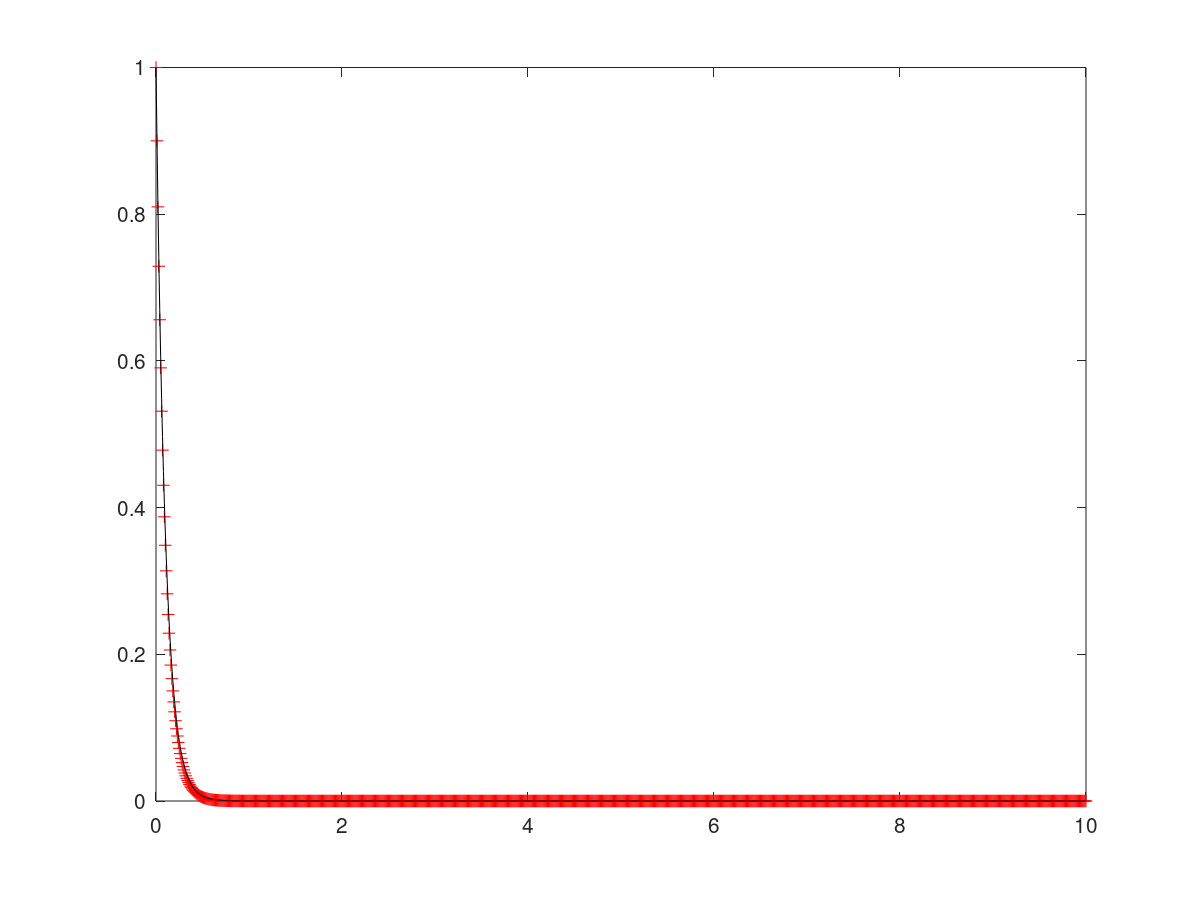
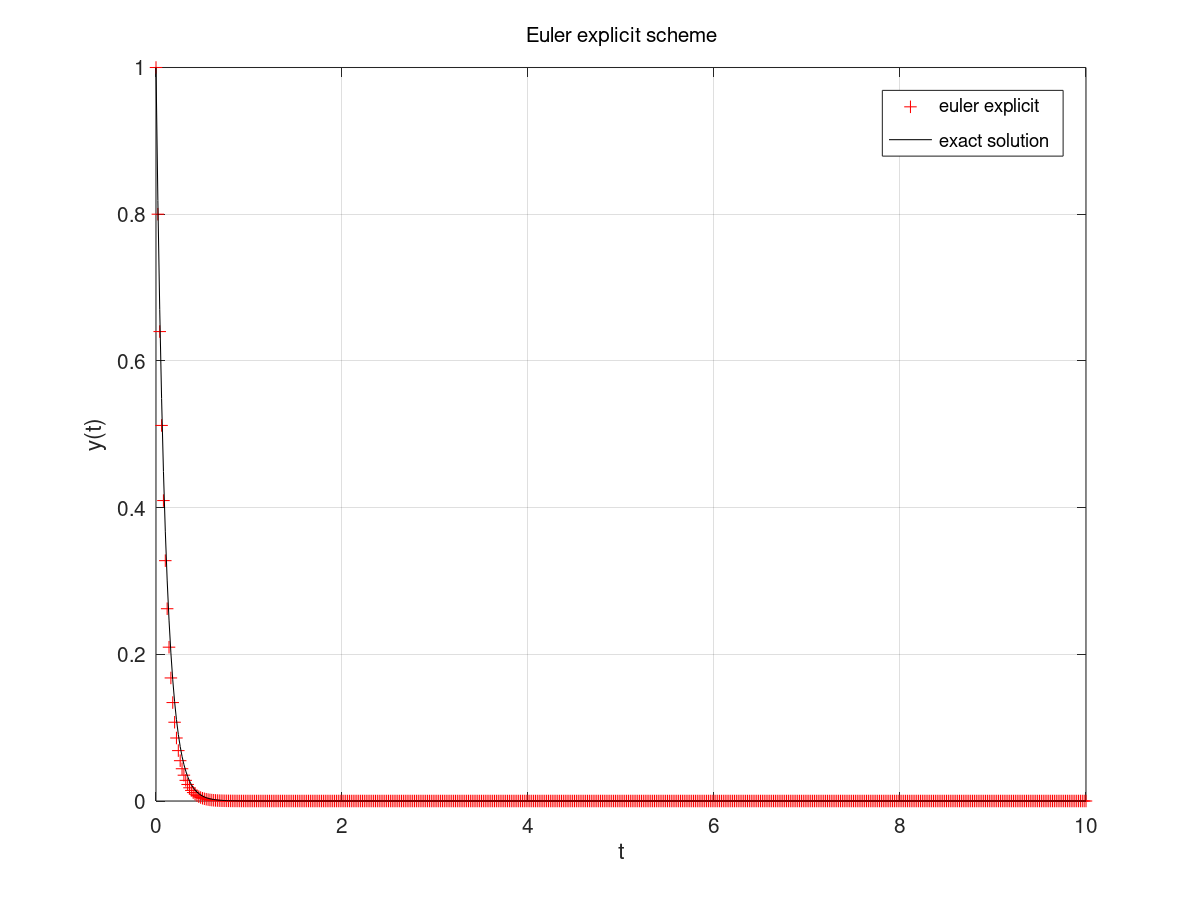
euler explicit scheme for y' = -10y with y(1) = 1

diff --git a/Scripts/Octave/Euler/eulerexplicit.m b/Scripts/Octave/Euler/eulerexplicit.m
@@ -5,11 +5,11 @@
 
 """ Script to implement the Euler explicit scheme for y' = -10y with y(1) = 1 """
 
-t_ = 10;                % time period
-dt = 0.01;              % time step
-N = t_/dt;              % number of steps
-t = zeros(N+1, 1);      % time step vector
-y = zeros(N+1, 1);      % solution vector
+t_ = 10;                # time period
+dt = 0.02;              # time step
+N = t_/dt;              # number of steps
+t = zeros(N+1, 1);      # time vector
+y = zeros(N+1, 1);      # solution vector of euler explicit
 t(1) = 0;              
 y(1) = 1;               
 
@@ -18,9 +18,12 @@ for k = 1:N
     y(k+1) = y(k) + dt * (-10 * y(k));
 end
 
-exact = exp(-10*t);     % exact solution
+exact = exp(-10*t);     # exact solution
 
-plot(t, y, 'r+');
-hold on;
-plot(t, exact, 'k-');
-print('eulerexplicit.png', '-dpng')
+figure;  plot(t, y, 'r+');
+hold on; plot(t, exact, 'k-');
+xlabel('t'); ylabel('y(t)');
+legend('euler explicit', 'exact solution');
+set(legend, 'location', 'northeast');
+set(gca, 'title', text('string', 'Euler explicit scheme'));
+grid on; print('eulerexplicit.png', '-dpng')
